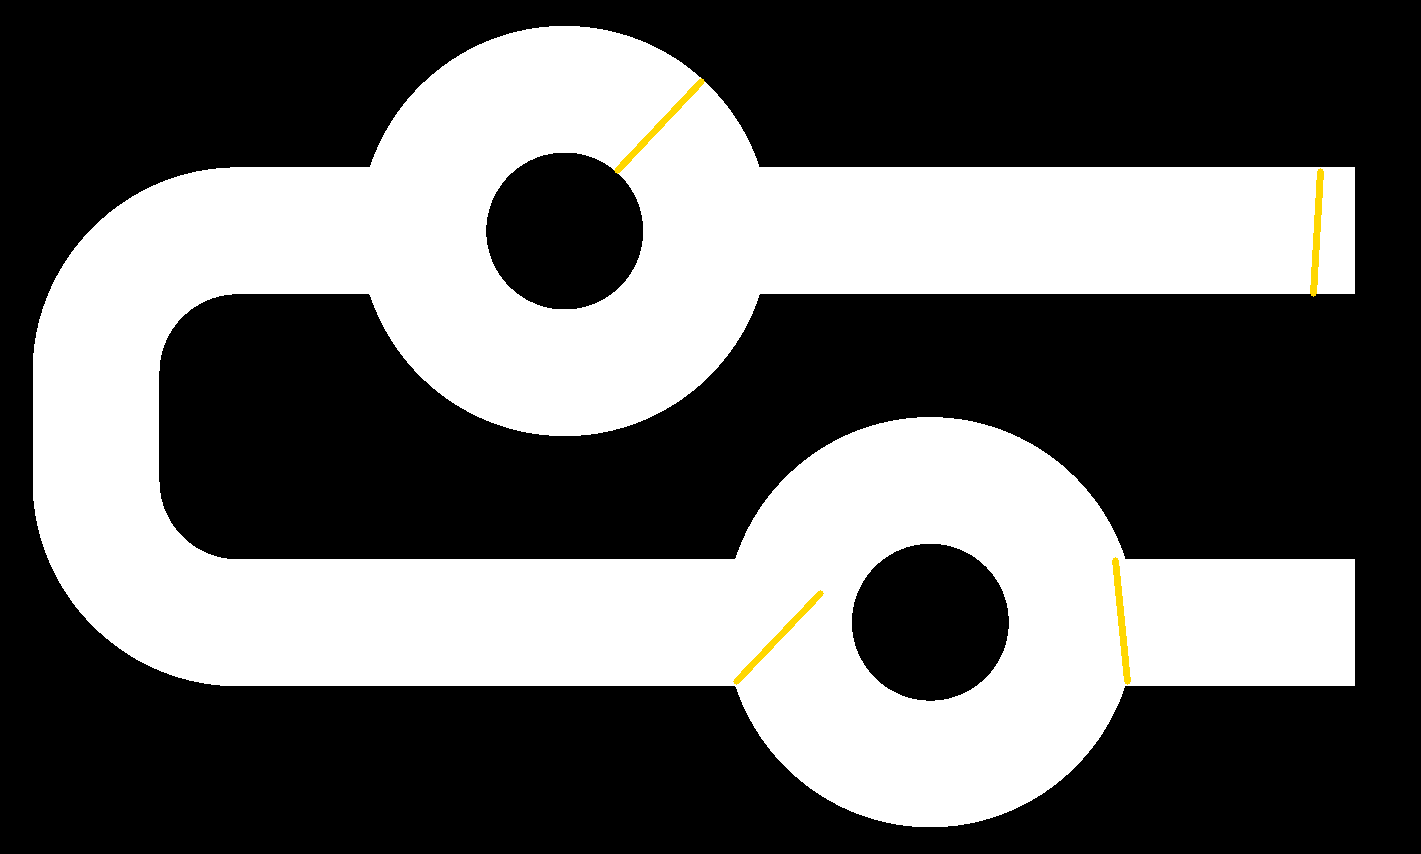
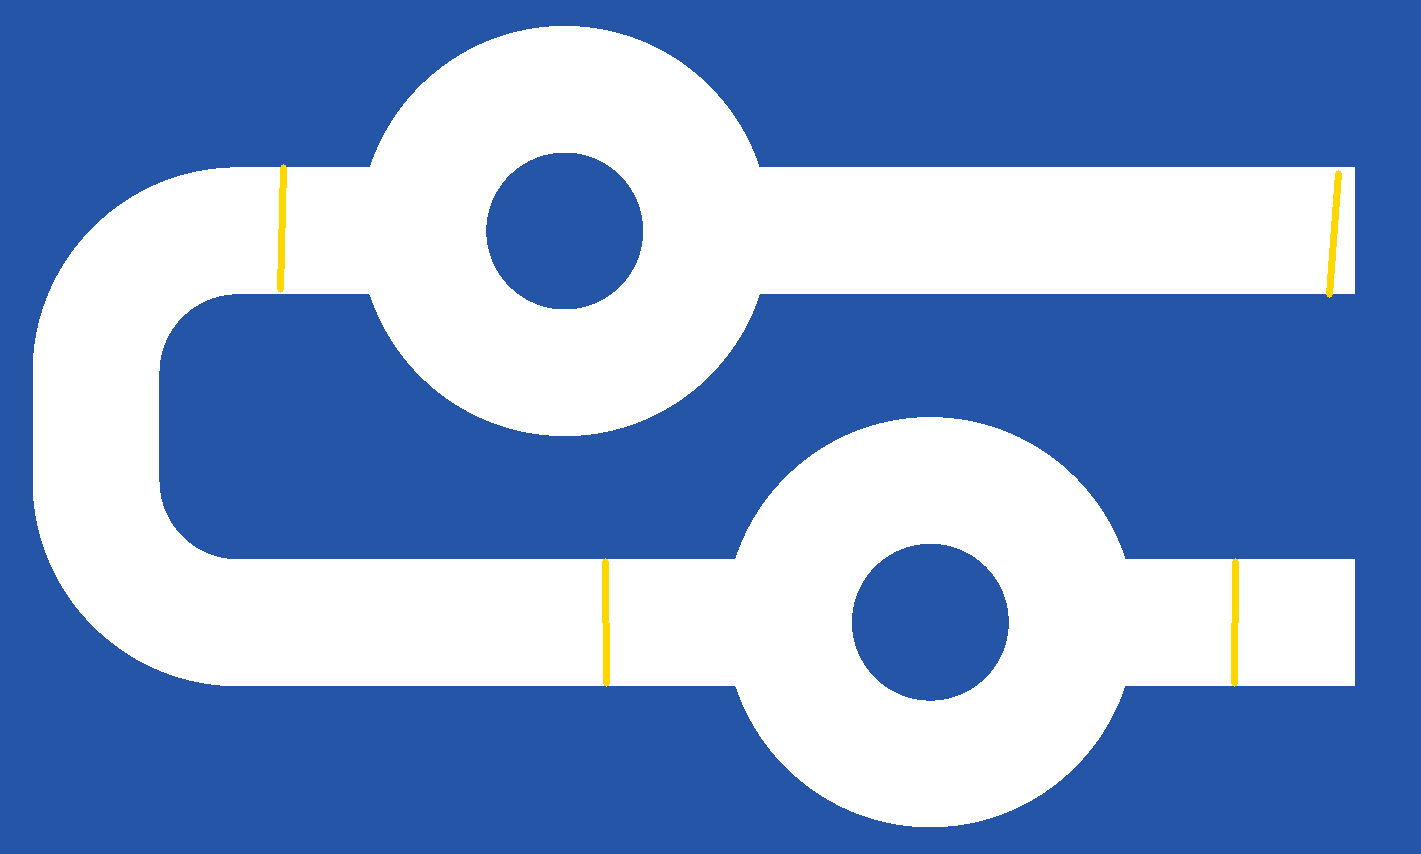
修正环岛黄线位置与仿真健壮性，调整环岛参数
- 环岛黄线按 rb4 实测停车点重算，修正第 3 根偏 1.6m
- render 将 remap 越界黑边改回背景色，避免被阈值当成障碍
- world_node 对图像发布和退出异常兜底，避免单帧失败中断仿真
- 环岛参数 target 0.55 / kp 2.45 / damping 0.85，track_mode 修正为 roundabout

diff --git a/tools/sim/extract_track.py b/tools/sim/extract_track.py
@@ -199,10 +199,20 @@ def main():
     print(f"[geom] path={total:.2f}m  lane_width≈{lane_w:.0f}mm  "
           f"kappa max={np.abs(kappa).max():.2f}/m (Rmin={1/max(np.abs(kappa).max(),1e-6):.2f}m)", flush=True)
 
-    # 黄线：默认按实测 odom 比例缩放，可在 JSON 里手改
-    yellow_odom = [0.85, 2.56, 8.35, 10.95]
-    odom_len = 11.07
+    # 黄线位置：按各图实测 odom 停车里程，等比缩放到中心线弧长。
+    #   fork      : lap_fork2 @0.3 -> 停车点 0.85/2.56/8.35/10.95，odom 11.07 m
+    #   roundabout: rb4       @0.3 -> 停车点 0.40/2.89/6.08/10.03，odom 10.03 m
+    # 环岛原来直接套 fork 的 [0.85,2.56,8.35,10.95]，第 3 根偏了约 2 m，
+    # 导致仿真把第 3 根当成第 4 根、提前 1.8 m 判终点。
+    YELLOW_ODOM = {
+        "fork": ([0.85, 2.56, 8.35, 10.95], 11.07),
+        "roundabout": ([0.40, 2.89, 6.08, 10.03], 10.03),
+    }
+    yellow_odom, odom_len = YELLOW_ODOM.get(
+        args.name, ([0.85, 2.56, 8.35, 10.95], 11.07))
     yellow = [round(v * total / odom_len, 3) for v in yellow_odom]
+    # 规则：最后一根贴在终点前 6cm
+    yellow[-1] = round(total - 0.06, 3)
 
     # 鸟瞰渲染图：蓝底 + 白路 + 黄线（颜色与真实赛场地垫一致）
     rgb = np.zeros((H, W, 3), np.uint8)
@@ -218,6 +228,9 @@ def main():
         half_len = (lane_w / 2) / mm_per_px
         a = (pts_px[i] + nrm * half_len).astype(int)
         b = (pts_px[i] - nrm * half_len).astype(int)
+        # 规则写黄线宽 20mm，但真实胶带边缘发虚、有反光，图像里有效宽度约 30mm。
+        # 仿真画 20mm 硬边会让面积只占 ROI 的 0.5%，达不到 yellow_area_ratio_threshold=0.02，
+        # 表现为"黄线漏检、车不停"。按 32mm 画更接近实车成像。
         cv2.line(rgb, tuple(a), tuple(b), (0, 215, 255), max(2, int(20 / mm_per_px)))
     cv2.imwrite(os.path.join(outdir, f"{args.name}.png"), rgb)
 

diff --git a/tools/sim/world_node.py b/tools/sim/world_node.py
@@ -154,7 +154,12 @@ class SimWorld(Node):
         im = self.bridge.cv2_to_imgmsg(img, encoding="bgr8")
         im.header.stamp = stamp
         im.header.frame_id = "camera_link"
-        self.pub_img.publish(im)
+        # 单帧发布失败不应让整个仿真停摆：publish 抛异常会一路传到 executor，
+        # 导致 spin 退出、图像流中断，巡线节点随之判定丢线。
+        try:
+            self.pub_img.publish(im)
+        except Exception as exc:  # noqa: BLE001
+            self.get_logger().warn(f"[sim] image publish failed: {exc}")
 
         # 每 30 帧打一行，扫参脚本直接解析
         self._frame += 1
@@ -188,9 +193,17 @@ def main():
         rclpy.spin(node)
     except KeyboardInterrupt:
         pass
+    except Exception as exc:  # noqa: BLE001
+        print(f"[sim] spin exited abnormally: {exc}", flush=True)
     finally:
-        node.destroy_node()
-        rclpy.shutdown()
+        try:
+            node.destroy_node()
+        except Exception:
+            pass
+        try:
+            rclpy.shutdown()
+        except Exception:
+            pass
 
 
 if __name__ == "__main__":

diff --git a/tools/sim/render.py b/tools/sim/render.py
@@ -104,6 +104,12 @@ class TrackRenderer:
         my = np.nan_to_num(((self.H - 1) - y / self.mpp).astype(np.float32), nan=-1e6)
         out = cv2.remap(self.map_bgr, mx, my, cv2.INTER_LINEAR,
                         borderMode=cv2.BORDER_CONSTANT, borderValue=BG_BGR)
+        # remap 在坐标越界时会填 (0,0,0)，不是 borderValue。纯黑会被巡线的
+        # binary_threshold(160) 当成障碍，污染 ROI 的列白像素比例 -> 质心跳动 -> 丢线。
+        # 统一改回地图背景色，与真实地垫一致。
+        black = (out == 0).all(axis=2)
+        if black.any():
+            out[black] = BG_BGR
         if blur > 0:
             k = int(blur * 2) * 2 + 1
             out = cv2.GaussianBlur(out, (k, k), blur)
